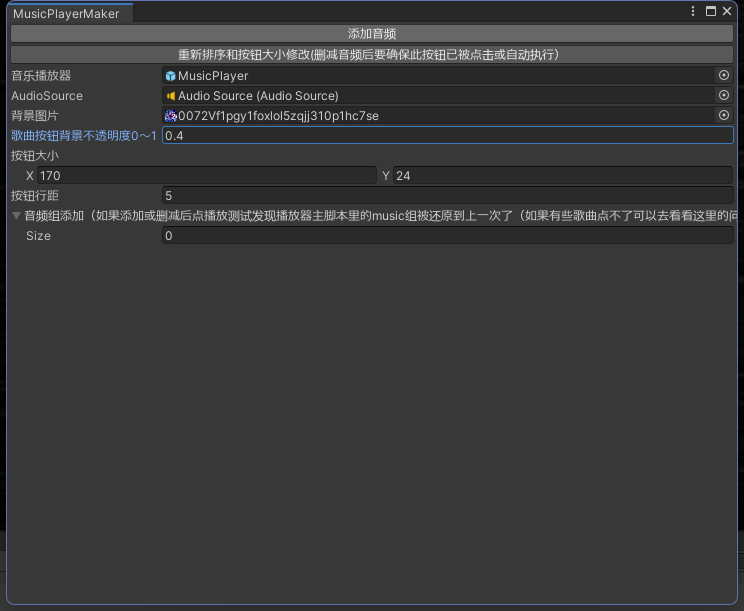
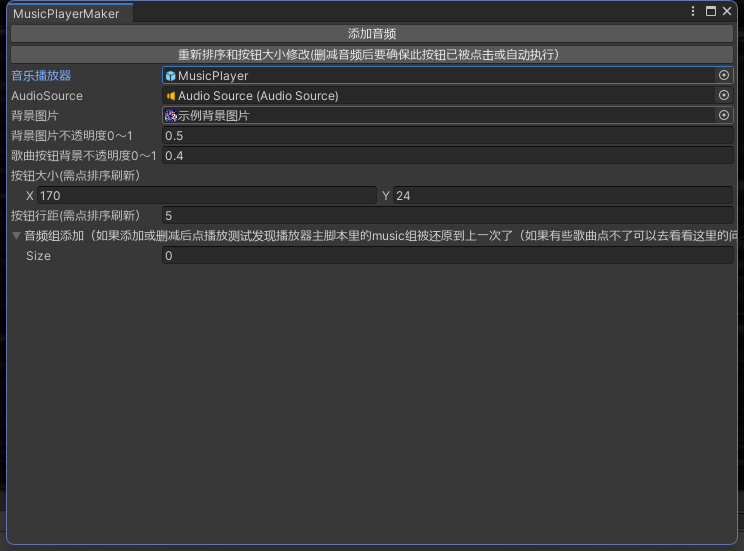
v1.7.2

diff --git a/Assets/MusicPlayerMaker/Editor/MusicPlayerGenerator.cs b/Assets/MusicPlayerMaker/Editor/MusicPlayerGenerator.cs
@@ -36,6 +36,8 @@ namespace MusicPlayerMaker {
         float ButtonMargin = 5;
         [SerializeField]
         float ButtonA =0.4f;
+        [SerializeField]
+        float ImageA = 0.5f;
         public MusicPlayer muc;
        public  AudioClip[] audio;
         public AudioClip[] lsau;
@@ -54,11 +56,12 @@ namespace MusicPlayerMaker {
             var oldPlayerObject = PlayerObject;
             var oldimage = Image;
             var oldbta = ButtonA;
+            var oldia = ImageA;
             //muc = GameObject.Find("MusicPlayer").GetComponent<MusicPlayer>();
-            
+
             //udon.publicVariables.TryGetVariableValue("", out music01);
 
-            
+
             var so = new SerializedObject(this);
             so.Update();
 
@@ -69,9 +72,10 @@ namespace MusicPlayerMaker {
             EditorGUILayout.PropertyField(so.FindProperty("PlayerObject"), new GUIContent("音乐播放器"));
             EditorGUILayout.PropertyField(so.FindProperty("AudioSource"), new GUIContent("AudioSource"));
             EditorGUILayout.PropertyField(so.FindProperty("Image"), new GUIContent("背景图片"));
+            EditorGUILayout.PropertyField(so.FindProperty("ImageA"), new GUIContent("背景图片不透明度0～1"));
             EditorGUILayout.PropertyField(so.FindProperty("ButtonA"), new GUIContent("歌曲按钮背景不透明度0～1"));
-            EditorGUILayout.PropertyField(so.FindProperty("ButtonSize"), new GUIContent("按钮大小"));
-            EditorGUILayout.PropertyField(so.FindProperty("ButtonMargin"), new GUIContent("按钮行距"));
+            EditorGUILayout.PropertyField(so.FindProperty("ButtonSize"), new GUIContent("按钮大小(需点排序刷新）"));
+            EditorGUILayout.PropertyField(so.FindProperty("ButtonMargin"), new GUIContent("按钮行距(需点排序刷新）"));
             EditorGUILayout.PropertyField(so.FindProperty("AudioClips"), new GUIContent("音频组添加（如果添加或删减后点播放测试发现播放器主脚本里的music组被还原到上一次了（如果有些歌曲点不了可以去看看这里的问题），请先点排序后手动对music组进行展开再合上即可，我也不知道为什么）"), true);
 
             so.ApplyModifiedProperties();
@@ -97,16 +101,22 @@ namespace MusicPlayerMaker {
                 ButtonSize = textbtx.GetOrAddComponent<Text>().text == "" && textbty.GetOrAddComponent<Text>().text == "" ? new Vector2(170, 24) : new Vector2(float.Parse(textbtx.GetOrAddComponent<Text>().text), float.Parse(textbty.GetOrAddComponent<Text>().text));
                 var textbm = bl.FindChildOrCreate("按钮行距");
                 ButtonMargin = textbm.GetOrAddComponent<Text>().text == "" ? 5 : float.Parse(textbm.GetOrAddComponent<Text>().text);
+                var textia = bl.FindChildOrCreate("背景不透明度");
+                ImageA = textia.GetOrAddComponent<Text>().text == "" ? 0.5f : float.Parse(textia.GetOrAddComponent<Text>().text);
             }
             if (ButtonA>1)
             {
                 ButtonA = 1f;
             }
+            if (ImageA>1)
+            {
+                ImageA = 1f;
+            }
             if(ButtonA!=oldbta && PlayerObject != null&& PlayerObject == oldPlayerObject)
             {
                 Px();
             }
-            if (Image != null && Image != oldimage && PlayerObject != null)
+            if (ImageA!=oldia || (Image != null && Image != oldimage) && PlayerObject != null)
             { 
                 upimage();
             }
@@ -162,12 +172,15 @@ namespace MusicPlayerMaker {
                 scr.GetComponent<Image>().enabled = false;
                 image.enabled = true;
                 image.sprite = Sprite.Create(Image, new Rect(0, 0, Image.width, Image.height),new Vector2(0.5f,0.5f));                
-                image.color = new Color(image.color.r, image.color.g, image.color.b, 0.4f);
+                image.color = new Color(image.color.r, image.color.g, image.color.b, ImageA);
                 image.type = (Image.Type)3;
                 image.fillMethod = (Image.FillMethod)1;
                 image.fillOrigin = 0;
                 image.fillAmount = 0.9f;
-               
+                var bl = PlayerObject.FindChildOrCreate("变量存储");
+                var textia = bl.FindChildOrCreate("背景不透明度");
+                textia.GetOrAddComponent<Text>().text = ImageA.ToString();
+                textia.GetOrAddComponent<Text>().enabled = false;
             }
         }
         void Px()
